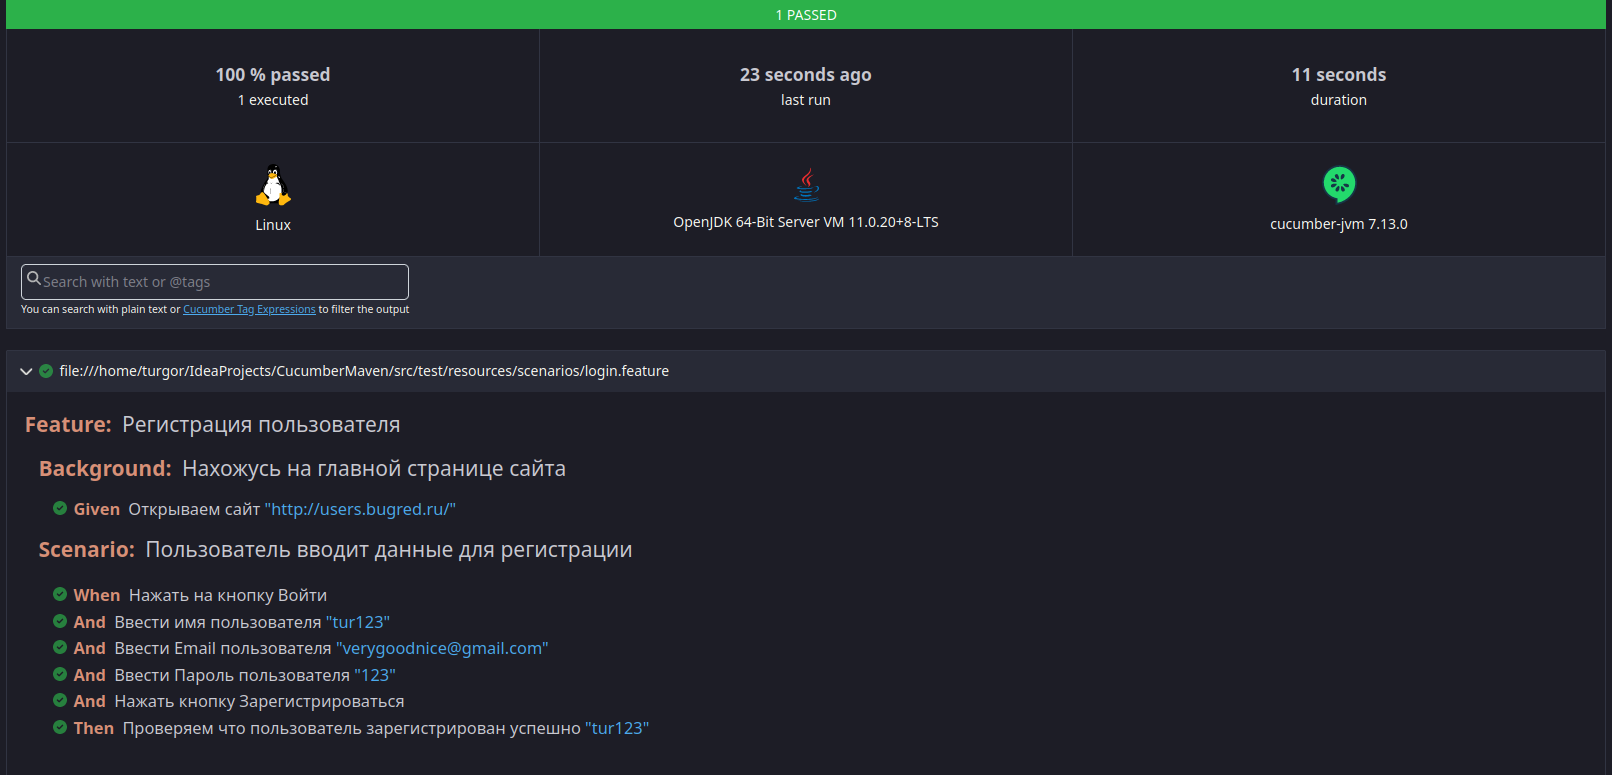
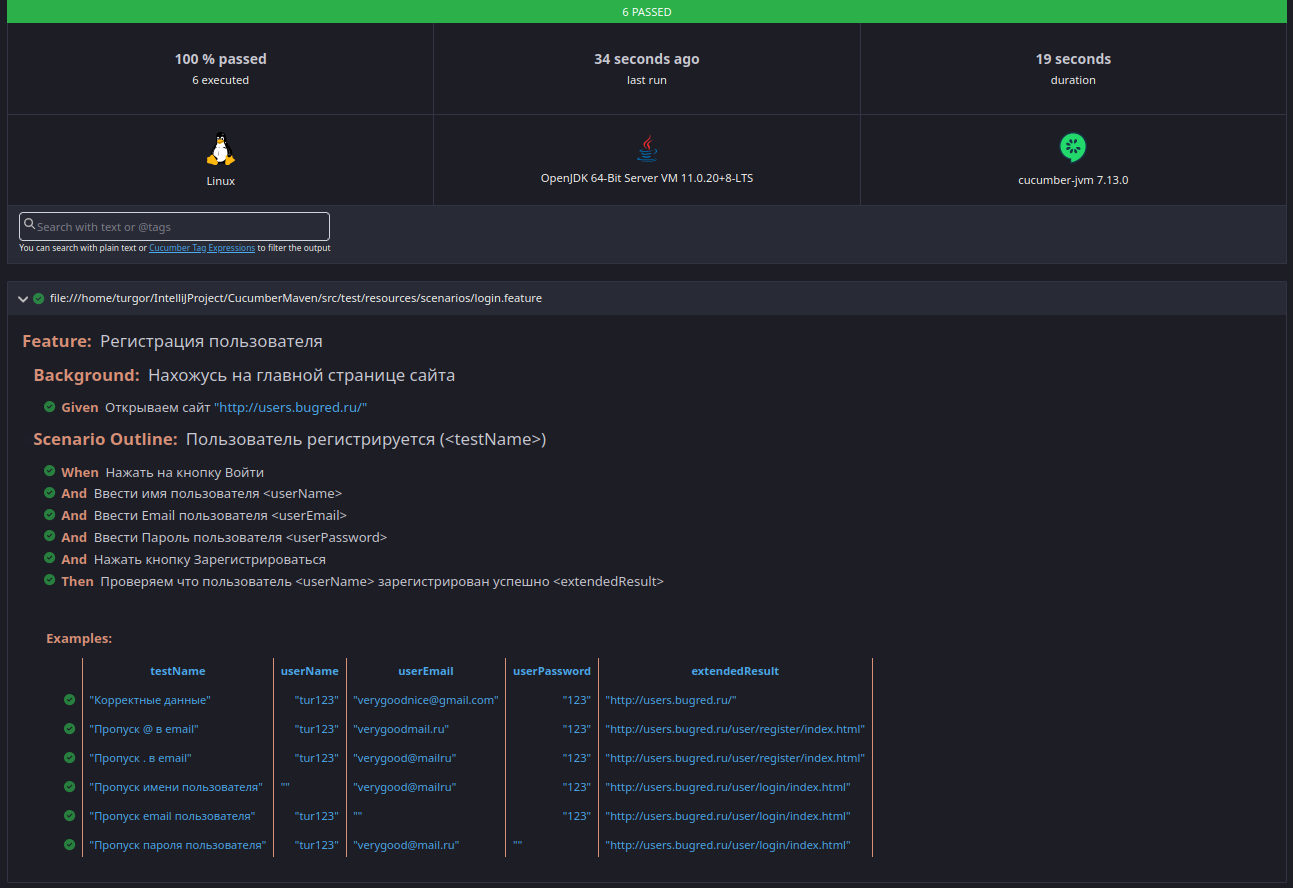
refactoring: cucumber test add table data, readme file

Changed region(s): [[0.0, 0.0, 1.0, 0.96], [0.4022, 0.7432, 0.6806, 0.96]]

diff --git a/src/test/java/steps/LoginStep.java b/src/test/java/steps/LoginStep.java
@@ -2,22 +2,36 @@ package steps;
 
 import com.codeborne.selenide.Selenide;
 import com.codeborne.selenide.SelenideElement;
+import com.codeborne.selenide.WebDriverRunner;
 import io.cucumber.java.en.And;
 import io.cucumber.java.en.Given;
 import io.cucumber.java.en.Then;
 import io.cucumber.java.en.When;
 import org.junit.Assert;
 
-import static com.codeborne.selenide.Selenide.$$x;
 import static com.codeborne.selenide.Selenide.$x;
 
 public class LoginStep {
+    String ADMIN_EMAIL = "manager@mail.ru";
+    String ADMIN_PASSWORD = "1";
+
     private final SelenideElement BUTTON_LOGIN = $x("//span[text()='Войти']");
-    private final SelenideElement INPUT_NAME_REG = $x("//input[@name='name']");
-    private final SelenideElement INPUT_EMAIL_REG = $x("//input[@name='email']");
-    private final SelenideElement INPUT_PASSWORD_REG = $$x("//input[@name='password']").get(1);
+
+    private final SelenideElement INPUT_EMAIL_AUT = $x("//input[@name='login']");
+    private final SelenideElement INPUT_PASSWORD_AUT = $x("//input[@name='password']");
+    private final SelenideElement BUTTON_USER_AUT = $x("//input[@value='Авторизоваться']");
+
+    private final SelenideElement INPUT_NAME_REG = $x("//input[@required=''][@name='name']");
+    private final SelenideElement INPUT_EMAIL_REG = $x("//input[@required=''][@name='email']");
+    private final SelenideElement INPUT_PASSWORD_REG = $x("//input[@name='password'][@required='']");
     private final SelenideElement BUTTON_REGISTRATION = $x("//input[@value='Зарегистрироваться']");
-    private final SelenideElement LOGO_AUTHORIZATION = $x("//a[@class='dropdown-toggle']");
+
+    private final SelenideElement BUTTON_ICON = $x("//a[@class='dropdown-toggle']");
+    private final SelenideElement BUTTON_LOGOUT = $x("//a[@href='/user/logout.html']");
+
+    private final SelenideElement INPUT_NAME_OR_EMAIL = $x("//input[@placeholder='Введите email или имя']");
+    private final SelenideElement BUTTON_SEARCH = $x("//button[@class='btn btn-submit']");
+    private final SelenideElement BUTTON_DELETE = $x("//a[text()='Удалить']");
 
     @Given("Открываем сайт {string}")
     public void openWebSite(String url) {
@@ -49,9 +63,25 @@ public class LoginStep {
         BUTTON_REGISTRATION.click();
     }
 
-    @Then("Проверяем что пользователь зарегистрирован успешно {string}")
-    public void checkAuthorization(String extendedResult) {
-        String result = LOGO_AUTHORIZATION.getText();
+    @Then("Проверяем что пользователь {string} зарегистрирован успешно {string}")
+    public void checkAuthorization(String userName, String extendedResult) {
+        String result = WebDriverRunner.url();
+        if (result.equals("http://users.bugred.ru/")) {
+            BUTTON_ICON.click();
+            BUTTON_LOGOUT.click();
+
+            BUTTON_LOGIN.click();
+            INPUT_EMAIL_AUT.sendKeys(ADMIN_EMAIL);
+            INPUT_PASSWORD_AUT.sendKeys(ADMIN_PASSWORD);
+            BUTTON_USER_AUT.click();
+
+            INPUT_NAME_OR_EMAIL.sendKeys(userName);
+            BUTTON_SEARCH.click();
+            BUTTON_DELETE.click();
+
+            BUTTON_ICON.click();
+            BUTTON_LOGOUT.click();
+        }
         Assert.assertEquals(extendedResult, result);
     }
 }

diff --git a/src/test/java/tests/CucumberRunnerTest.java b/src/test/java/tests/CucumberRunnerTest.java
@@ -8,7 +8,7 @@ import org.junit.runner.RunWith;
 @CucumberOptions(
         features = {"src/test/resources/scenarios"},
         glue = {"hooks", "steps"},
-        plugin = {"pretty", "html:target/cucumber-reports/report.html"}
+        plugin = {"pretty", "html:build/reports/tests/report.html"}
 )
 public class CucumberRunnerTest {
 }

diff --git a/README.md b/README.md
@@ -5,14 +5,22 @@
 Цель проекта: получение навыков в написание авто тестов на Java
 на примере веб-сайта (<a href="http://users.bugred.ru/">users</a>).
 
-# Технологии
+## Технологии
 
 - Java
 - JUnit
 - Selenid
-- Cucumber
+- Cucumber(BDD)
 - Cucumber report
 
-# Cucumber report
+## Окружение
+
+Для запуска тестов нужно установить <a href="https://www.google.com/intl/ru_ru/chrome/">Google Chrome</a>
+
+## Запуск тестов
+
+<img src="./img/start-tests.png" width="700" height="380">
+
+## Cucumber report
 
 <img src="./img/cucumber-report.png" width="700" height="400">
